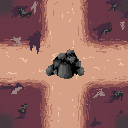
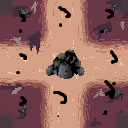
17: Implement game end logic (#105)

diff --git a/src/scenes/gamescreen.ts b/src/scenes/gamescreen.ts
@@ -5,6 +5,9 @@ import TileManager from "managers/TileManager";
 import Phaser from "phaser";
 import { assert } from "utilities/utils";
 import AdjacencyManager from "../managers/AdjacencyManager";
+import SessionManager from "managers/SessionManager";
+import { Session } from "entities/Session";
+import { TileState } from "definitions/enums";
 
 export class GameScreen extends Phaser.Scene {
     private dragStart: Nullable<Phaser.Math.Vector2>;
@@ -20,6 +23,7 @@ export class GameScreen extends Phaser.Scene {
     public init(): void {
         const tileUpdateListener: UUID = TileManager.onSync.on(() => {
             this.displayPlacedTiles();
+            this.checkGameEnd();
         });
         this.events.on("destroy", () => {
             TileManager.onSync.off(tileUpdateListener);
@@ -27,7 +31,7 @@ export class GameScreen extends Phaser.Scene {
     }
 
     public preload(): void {
-        for (let i: int = 0; i < 12; i++) {
+        for (let i: int = 0; i < 13; i++) {
             this.load.image(`tile${i}`, `assets/tiles/tile${i}.png`);
         }
     }
@@ -101,5 +105,28 @@ export class GameScreen extends Phaser.Scene {
                 );
             }
         });
+    }
+
+    private checkGameEnd() {
+        const session: Nullable<Session> = SessionManager.get();
+        const tiles: Nullable<Tile[]> = TileManager.getAll();
+        assert(session && tiles);
+        if (!session.turnIndex) {
+            return;
+        }
+
+        const state: Nullable<TileState> = tiles[tiles.length - 1].state;
+        if (state === null) {
+            return;
+        }
+        if (
+            SessionManager.getReachedGold() ||
+            state === TileState.Placed ||
+            state === TileState.Discarded
+        ) {
+            this.scene.start("EndScreen");
+            this.scene.remove("GameUiScreen");
+            this.scene.remove("GameScreen");
+        }
     }
 }

diff --git a/src/scenes/endscreen.ts b/src/scenes/endscreen.ts
@@ -1,0 +1,53 @@
+import { Nullable } from "definitions/utils";
+import SessionManager from "managers/SessionManager";
+import Phaser from "phaser";
+import { assert, interactify } from "../utilities/utils";
+import { ScreenHeight, ScreenWidth } from "../core/main";
+import PlayerManager from "managers/PlayerManager";
+import { Player } from "entities/Player";
+import { Role } from "definitions/enums";
+
+export class EndScreen extends Phaser.Scene {
+    public constructor() {
+        super("EndScreen");
+    }
+
+    public preload(): void {
+        this.load.image("quit", "assets/buttons/quit.png");
+    }
+
+    public create(): void {
+        this.displayMessage();
+
+        const button: Phaser.GameObjects.Image = this.add
+            .image(ScreenWidth / 2, ScreenHeight / 1.5, "quit")
+            .setOrigin(0.5, 0.5);
+        interactify(button, 0.5, () => this.onButton());
+        PlayerManager.delete();
+    }
+
+    private async onButton(): Promise<void> {
+        this.scene.start("TitleScreen");
+    }
+
+    private displayMessage(): void {
+        let text: string = "You loose";
+        const me: Nullable<Player> = PlayerManager.getMe();
+        assert(me);
+        if (
+            (me.role === Role.Miner && SessionManager.getReachedGold()) ||
+            (me.role === Role.Saboteur && !SessionManager.getReachedGold())
+        ) {
+            text = "You win baby";
+        }
+
+        this.add
+            .text(ScreenWidth / 2, ScreenHeight / 2, text, {
+                fontFamily: "Arial",
+                fontSize: "100px",
+                color: "#ffd700",
+                fontStyle: "bold",
+            })
+            .setOrigin(0.5, 0.5);
+    }
+}

diff --git a/src/scenes/gameuiscreen.ts b/src/scenes/gameuiscreen.ts
@@ -22,7 +22,6 @@ export class GameUiScreen extends Phaser.Scene {
         Phaser.Math.Vector2
     >;
     private wrongText: Nullable<Phaser.GameObjects.Text>;
-    private winText: Nullable<Phaser.GameObjects.Text>;
     private isDraging: boolean;
 
     public constructor() {
@@ -45,7 +44,6 @@ export class GameUiScreen extends Phaser.Scene {
             Phaser.Math.Vector2
         >();
         this.wrongText = null;
-        this.winText = null;
         this.isDraging = false;
     }
 
@@ -58,10 +56,6 @@ export class GameUiScreen extends Phaser.Scene {
             this.displayDrawnTiles();
             if (!isMyTurn) {
                 this.setAllTileNotInteractive();
-            }
-            if (AdjacencyManager.getHasWon()) {
-                this.displayWinMessage();
-                isMyTurn = false;
             }
         });
         this.events.on("destroy", () => {
@@ -335,14 +329,5 @@ export class GameUiScreen extends Phaser.Scene {
     private cleanUp(): void {
         this.dragObj = null;
         this.currentTile.rotation = 0;
-    }
-
-    private displayWinMessage(): void {
-        this.winText = this.add.text(100, 200, "Congrats, You Win!", {
-            fontFamily: "Arial",
-            fontSize: "100px",
-            color: "#ffd700",
-            fontStyle: "bold",
-        });
     }
 }

diff --git a/src/managers/TileManager.ts b/src/managers/TileManager.ts
@@ -17,6 +17,7 @@ import { Placeable } from "definitions/adjacency";
 
 class TileManager {
     public readonly onSync: EventEmitter;
+    public reachedCoal: Phaser.Math.Vector2[] = [];
     private list: Nullable<Tile[]>;
 
     public constructor() {
@@ -83,6 +84,17 @@ class TileManager {
         const veins: int[] = seededShuffle([9, 10, 10], session.seed); // 9 is gold, 10 are coal veins
 
         for (const item of preplacedTiles) {
+            // this is to turn coal veins into real coal paths
+            if (
+                this.reachedCoal.some(
+                    (coordinate) =>
+                        coordinate.x === item.coordinateX &&
+                        coordinate.y === item.coordinateY,
+                )
+            ) {
+                veins[veins.length - 1] = 12;
+            }
+
             const tile: Tile = new Tile(random, item.type || veins.pop()!);
             const tileDTO: TileDTO = {
                 id: tile.id,
@@ -105,7 +117,7 @@ class TileManager {
         api.put("/placeTile", tile);
     }
 
-    public discard(tile: PlaceTile): void {
+    public discard(tile: Placeable): void {
         const session: Nullable<SessionDTO> = SessionManager.get();
         assert(session);
         tile.sessionId = session.id;

diff --git a/src/managers/SessionManager.ts b/src/managers/SessionManager.ts
@@ -12,10 +12,12 @@ import { Player } from "../entities/Player";
 class SessionManager {
     public readonly onSync: EventEmitter;
     private session: Nullable<Session>;
+    private reachedGold: boolean;
 
     public constructor() {
         this.onSync = new EventEmitter();
         this.session = null;
+        this.reachedGold = false;
     }
 
     public get(): Nullable<Session> {
@@ -38,6 +40,8 @@ class SessionManager {
         const playerCount: int = players.length;
         if (session.turnIndex === null) {
             return false;
+        }
+        if (session.turnIndex === 40) {
         }
         return session.turnIndex % playerCount === me.orderIndex;
     }
@@ -101,6 +105,23 @@ class SessionManager {
         assert(session);
         const requestBody: string = session.id;
         await api.put("/start", requestBody);
+    }
+    /* 
+    public async delete(): Promise<void> {
+        const session: Nullable<Session> = this.get();
+        assert(session);
+        const requestBody: string = session.id;
+        await api.put("/start", requestBody);
+    }
+
+    } */
+
+    public setReachedGold(): void {
+        this.reachedGold = true;
+    }
+
+    public getReachedGold(): boolean {
+        return this.reachedGold;
     }
 }
 

diff --git a/src/utilities/AdjacencyMap.ts b/src/utilities/AdjacencyMap.ts
@@ -3,6 +3,8 @@ import { int, Nullable } from "definitions/utils";
 import { assert } from "./utils";
 import { Placeable, Path } from "definitions/adjacency";
 import AdjacencyManager from "managers/AdjacencyManager";
+import SessionManager from "managers/SessionManager";
+import TileManager from "managers/TileManager";
 
 export class AdjacencyMap {
     private cells: Map<string, Path>;
@@ -215,8 +217,17 @@ export class AdjacencyMap {
                     this.cells.get(this.key(x - 1, y))?.center === 1)
             ) {
                 goalPathRepresentation.connectionToStart = 1;
+                if (
+                    goalTiles[i].type === 10 &&
+                    !TileManager.reachedCoal.some(
+                        (coordinate) =>
+                            coordinate.x === x && coordinate.y === y,
+                    )
+                ) {
+                    TileManager.reachedCoal.push(new Phaser.Math.Vector2(x, y));
+                }
                 if (goalTiles[i].type === 9) {
-                    AdjacencyManager.setHasWon(true);
+                    SessionManager.setReachedGold();
                 }
             } else {
                 goalPathRepresentation.connectionToStart = 0;

diff --git a/src/core/main.ts b/src/core/main.ts
@@ -8,6 +8,7 @@ import GeneralManager from "managers/GeneralManager";
 import TileManager from "managers/TileManager";
 import { GameScreen } from "scenes/gamescreen";
 import { GameUiScreen } from "scenes/gameuiscreen";
+import { EndScreen } from "scenes/endscreen";
 
 export const ScreenWidth: int = document.body.clientWidth;
 export const ScreenHeight: int = document.body.clientHeight;
@@ -18,7 +19,7 @@ const config: Phaser.Types.Core.GameConfig = {
     height: ScreenHeight,
     parent: "game-container",
     backgroundColor: "#463a40",
-    scene: [TitleScreen, LobbyScreen, GameScreen, GameUiScreen],
+    scene: [TitleScreen, LobbyScreen, GameScreen, GameUiScreen, EndScreen],
 };
 export const EventBus: Phaser.Events.EventEmitter =
     new Phaser.Events.EventEmitter();

diff --git a/src/managers/AdjacencyManager.ts b/src/managers/AdjacencyManager.ts
@@ -8,21 +8,12 @@ import TileManager from "./TileManager";
 class AdjacencyManager {
     private adjacencyMap: Nullable<AdjacencyMap>;
     private pathMap: Map<int, Path>;
-    private hasWon: boolean;
 
     public constructor() {
         this.adjacencyMap = null;
         this.pathMap = this.createConnectionsMap();
-        this.hasWon = false;
     }
 
-    public setHasWon(hasWon: boolean): void {
-        this.hasWon = hasWon;
-    }
-
-    public getHasWon(): boolean {
-        return this.hasWon;
-    }
     public getPathMap(): Map<int, Path> {
         return this.pathMap;
     }

diff --git a/src/entities/Tile.ts b/src/entities/Tile.ts
@@ -6,7 +6,7 @@ import { seededUUIDv4 } from "utilities/utils";
 
 export class Tile {
     public readonly id: UUID;
-    public readonly type: int;
+    public type: int;
     public state: Nullable<TileState>;
     public rotation: int;
     public coordinateX: Nullable<int>;
